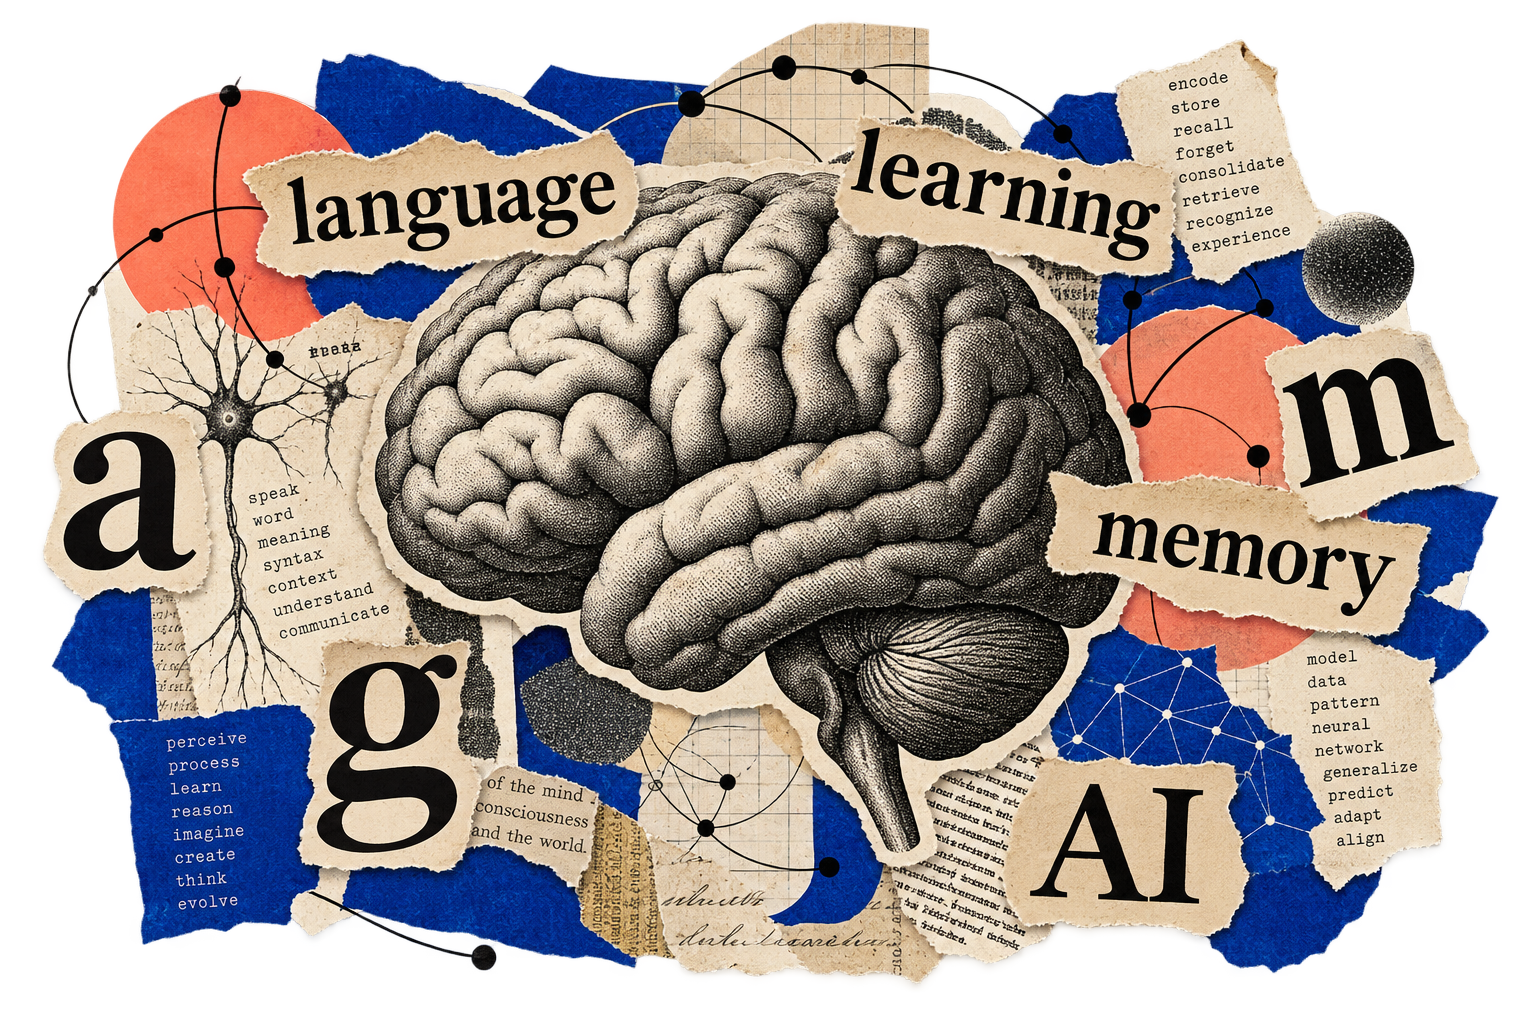
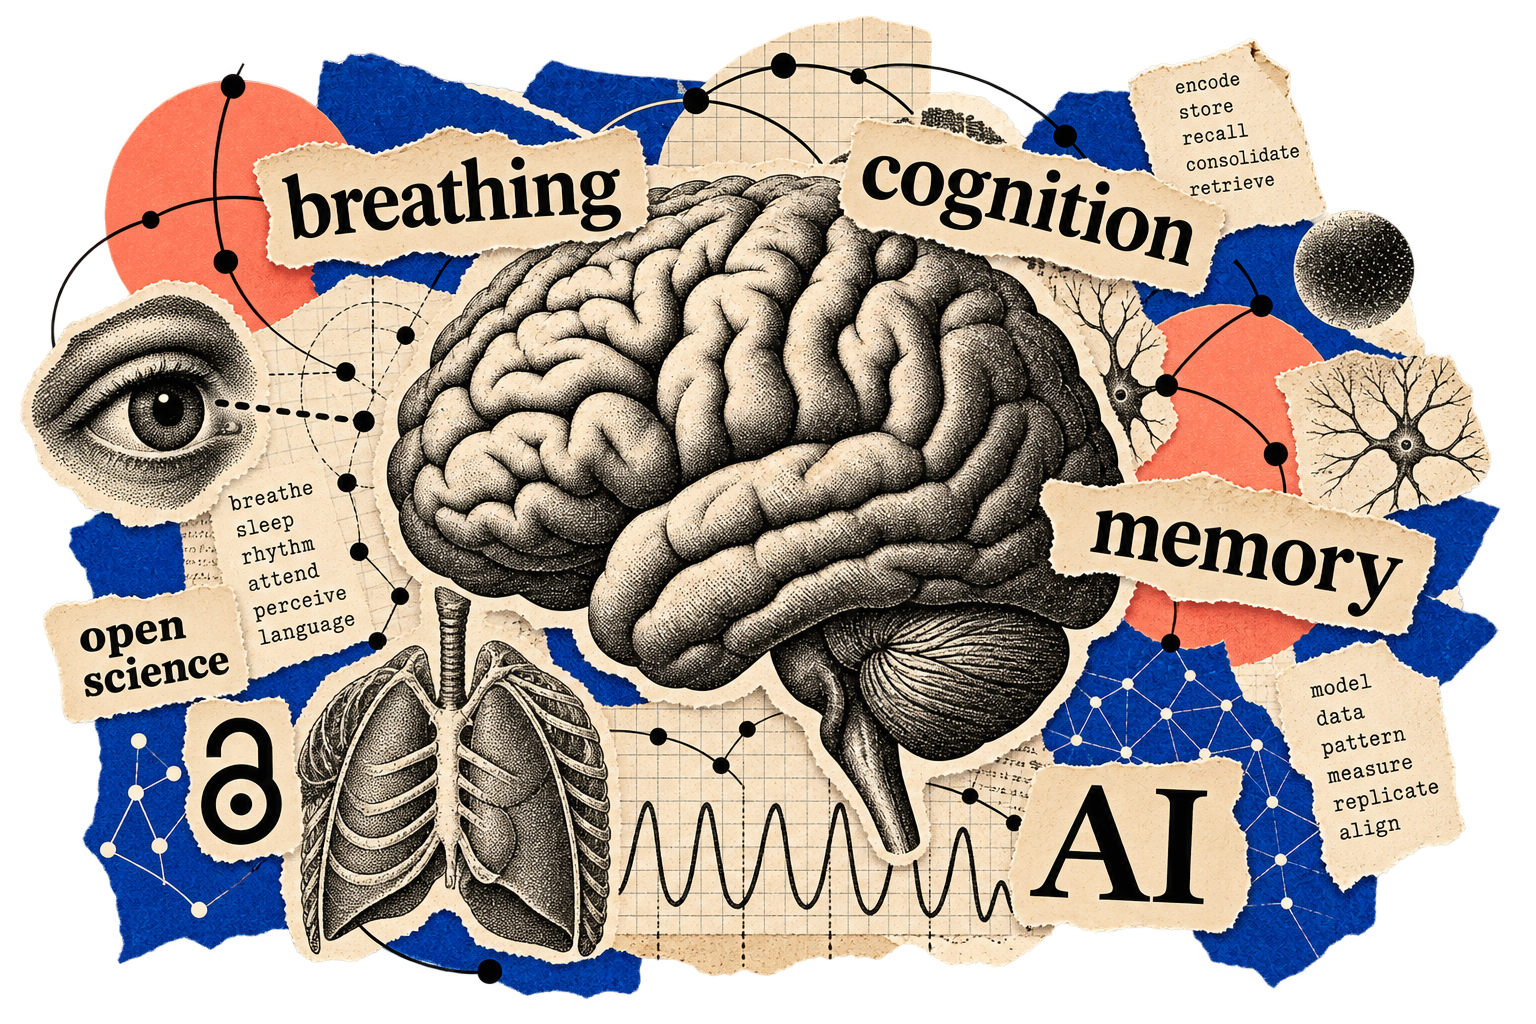
feat: refresh research positioning and CogPhys artwork

diff --git a/css/main.scss b/css/main.scss
@@ -151,8 +151,8 @@ h1 { font-size: clamp(42px, 4.2vw, 64px); font-weight: 600; letter-spacing: -.03
 .page-publications .prose > p { margin-bottom: 1.5em; }
 .page-research-students { --reading-width: 49%; --reading-left: 26%; }
 .page-research-students .prose > ul { font-size: 17px; }
-.page-coglang-lab { --reading-width: 43%; --reading-left: 27%; }
-.page-coglang-lab .page-hero { padding-top: 70px; }
+.page-cogphys-lab { --reading-width: 43%; --reading-left: 27%; }
+.page-cogphys-lab .page-hero { padding-top: 70px; }
 .page-teaching { --reading-width: 62%; --reading-left: 11%; }
 .site-footer .container { width: var(--reading-width); max-width: 960px; margin-left: var(--reading-left); }
 .footer-bottom { flex-direction: column; gap: 5px; }
@@ -162,7 +162,7 @@ h1 { font-size: clamp(42px, 4.2vw, 64px); font-weight: 600; letter-spacing: -.03
   .nav-links { gap: 8px 20px; }
   .prose { font-size: 18px; }
   .page-hero { padding-top: 36px; }
-  .page-coglang-lab .page-hero { padding-top: 40px; }
+  .page-cogphys-lab .page-hero { padding-top: 40px; }
 }
 @media (max-width: 700px) {
   body { --reading-width: calc(100% - 72px) !important; --reading-left: 36px !important; }

diff --git a/research.md b/research.md
@@ -5,22 +5,38 @@ permalink: /research/
 published: true
 ---
 
-My research examines how language is learned, represented and used in the context of memory, perception and action. I use behavioural experiments, eye tracking and cognitive-neuroscience methods, with an interest in how physiological state and individual differences shape cognitive performance.
+I study human cognition, memory, and language, and how they interact with bodily states such as breathing and sleep. Alongside this, I work on research methods and how AI is changing psychological research.
 
-## Word learning and memory
+One strand of my work looks at how sleep and breathing affect memory, visual attention, and cognition. This grew out of earlier research on word learning, language processing, and memory consolidation in sleep. My current work combines laboratory studies of respiration with large open datasets to examine how physiological regulation relates to cognition, health, and wellbeing.
 
-How does a newly learned word become part of our vocabulary? I study how new words interact with existing knowledge, and how sleep, waking rest and the spacing of learning affect that process. Related work examines how memories change when they are retrieved and how sleep affects their subsequent consolidation.
+A second strand focuses on research methods, open science, and metascience. I work on measurement precision, test-retest reliability, effect sizes in repeated-measures designs, meta-analysis, and publication bias. Alongside this, I am interested in the psychology of AI and AI for science, including how people trust and take responsibility for AI-assisted analysis, and how AI tools can support reproducible research.
 
-- [Lexical integration of novel words without sleep](https://doi.org/10.1037/a0029243) (2013). [PDF]({{ '/papers/Lexical_integration_of_novel_words_without_sleep.pdf' | relative_url }})
-- [Markers of automaticity in sleep-associated consolidation of novel words](https://doi.org/10.1016/j.neuropsychologia.2015.03.025) (2015). [PDF]({{ '/papers/Tham_Lindsay_Gaskell.pdf' | relative_url }})
-- [Sleep preserves original and distorted memory traces](https://doi.org/10.1016/j.cortex.2017.10.005) (2018). [PDF]({{ '/papers/cairney2017.pdf' | relative_url }})
-- [How well do children remember fast-mapped words?](https://doi.org/10.1002/icd.70019) (2025).
-
-## Respiration and cognition
+## Respiration, physiological state and cognition
 
 This work examines relationships between breathing and cognitive performance, including memory consolidation, visual search and visuospatial attention. Projects investigate both the route of breathing and the timing of events within the respiratory cycle.
 
 - [Does oral breathing disrupt memory consolidation during waking rest? A registered report](https://doi.org/10.1177/17470218251328994) (2025).
+- Respiratory phase and visuospatial attention: A replication and extension (Roberts et al., 2026). [PsyArXiv](https://osf.io/preprints/psyarxiv/n5ha3_v1).
+
+## Measurement, research methods and AI
+
+My methodological interests focus on how psychological studies can produce more informative and dependable evidence. I am particularly interested in measurement precision, effect sizes, statistical power, replication, registered reports and meta-analysis. Current interests include interpreting interaction effect sizes, representing dependence in repeated-measures designs, and understanding how publication bias, heterogeneity and study design affect the strength and variability of evidence.
+
+This includes examining how researchers check AI-assisted analyses and retain responsibility for the decisions they make.
+
+- [Developmental psychologists should care about measurement precision](https://doi.org/10.1002/icd.2321) (2022).
+- [Data from an international multi-centre study of statistics and mathematics anxieties](https://doi.org/10.5334/jopd.80) (2023).
+- [Same data, different analysts](https://doi.org/10.1186/s12915-024-02101-x) (2025). [PDF]({{ '/papers/Gould_et_al_2025_same_data_different_analysts.pdf' | relative_url }})
+
+## Word learning, memory and sleep
+
+How does a newly learned word become part of our vocabulary? I study how new words interact with existing knowledge, and how sleep, waking rest and the spacing of learning affect that process. Related work examines how memories change when they are retrieved and how sleep affects their subsequent consolidation.
+
+- [Does fast mapping accelerate lexical integration? Evidence from spoken and written novel words](https://doi.org/10.1016/j.jml.2026.104815) (2027). [PDF]({{ '/papers/1-s2.0-S0749596X26000859-main.pdf' | relative_url }})
+- [How well do children remember fast-mapped words?](https://doi.org/10.1002/icd.70019) (2025).
+- [Sleep preserves original and distorted memory traces](https://doi.org/10.1016/j.cortex.2017.10.005) (2018). [PDF]({{ '/papers/cairney2017.pdf' | relative_url }})
+- [Markers of automaticity in sleep-associated consolidation of novel words](https://doi.org/10.1016/j.neuropsychologia.2015.03.025) (2015). [PDF]({{ '/papers/Tham_Lindsay_Gaskell.pdf' | relative_url }})
+- [Lexical integration of novel words without sleep](https://doi.org/10.1037/a0029243) (2013). [PDF]({{ '/papers/Lexical_integration_of_novel_words_without_sleep.pdf' | relative_url }})
 
 ## Speech perception and production
 
@@ -37,14 +53,6 @@ How do people combine language with what they see? I use eye tracking and behavi
 - [Spatial and linguistic aspects of visual imagery in sentence comprehension](https://doi.org/10.1080/03640210701530748) (2007). [PDF]({{ '/papers/Spatial_and_Linguistic_Aspects_of_Visual_Imagery_i.pdf' | relative_url }})
 - [To dash or to dawdle](https://doi.org/10.1371/journal.pone.0067187) (2013).
 - [Event processing in the visual world](https://doi.org/10.1037/xlm0000199) (2016). [PDF]({{ '/papers/Event_processing_in_the_visual_world.pdf' | relative_url }})
-
-## Measurement and research methods
-
-My methodological interests focus on how psychological studies can produce more informative and dependable evidence. I am particularly interested in measurement precision, effect sizes, statistical power, replication, registered reports and meta-analysis. Current interests include interpreting interaction effect sizes, representing dependence in repeated-measures designs, and understanding how publication bias, heterogeneity and study design affect the strength and variability of evidence.
-
-- [Developmental psychologists should care about measurement precision](https://doi.org/10.1002/icd.2321) (2022).
-- [Data from an international multi-centre study of statistics and mathematics anxieties](https://doi.org/10.5334/jopd.80) (2023).
-- [Same data, different analysts](https://doi.org/10.1186/s12915-024-02101-x) (2025). [PDF]({{ '/papers/Gould_et_al_2025_same_data_different_analysts.pdf' | relative_url }})
 
 See the full [publication list]({{ '/publications/' | relative_url }}) and current [research students]({{ '/research-students/' | relative_url }}).
 

diff --git a/revamp/homepage-artwork.md b/revamp/homepage-artwork.md
@@ -1,7 +1,8 @@
 # Homepage collage assets
 
-Created with the built-in image-generation tool, 12 September 2026.
-The name, introduction and thematic words are raster artwork; navigation and contact links remain HTML.
+Original artwork created with the built-in image-generation tool on 12 September 2026. The introduction, body collage, Research background and lab background were refreshed on 30 October 2026 for the agreed cognition, physiology, research methods and AI positioning.
+
+The name, introduction and thematic words are raster artwork; navigation and contact links remain HTML. The four updated assets were supplied from `/tmp/website_revamp_assets/` on Legion.
 
 ## Name: `images/collage/name-patchwork.png`
 
@@ -9,8 +10,22 @@ Use case: logo-brand. Create a finished raster website masthead artwork of the e
 
 ## Body: `images/collage/brain-language.png`
 
-Use case: stylized-concept. A substantial finished editorial cut-paper collage illustration for the BODY of a psychologist's personal website, landscape 3:2 composition. Central large vintage engraved human brain in black halftone print, surrounded and partly overlapped by torn book-paper scraps with words "language", "learning", "memory", "AI", scattered oversized serif letters a, g, m, fragments of typewriter word lists, cobalt blue torn paper shapes, muted coral circular paper, thin ink arcs suggesting connections. Dense, compelling central artwork rather than edge decoration. Sophisticated handmade scholarly collage, analogue print and uneven torn edges, rich paper texture, warm cream, deep cobalt blue, salmon coral, black. Asymmetrical but cohesive, brain as strong focal point, words and letterforms have visual weight. Artwork occupies most of frame with generous clear separation around its irregular outer silhouette. Genuine transparent background preserving alpha so it can sit on cream webpage paper. No UI, no website mockup, no frame, no slogans, no other illustration subjects.
+Updated cut-paper and vintage engraving collage centred on a substantial brain, with lungs, an eye, neurons, physiological waveforms, network diagrams and an open-access motif. Torn-paper words include “breathing”, “cognition”, “memory”, “open science” and “AI”, with smaller memory and methods word lists. Warm cream paper, cobalt blue and coral retain the established palette. The supplied PNG is preserved at 1536 × 1024 pixels with its alpha channel.
 
 ## Introduction: `images/collage/introduction-note.png`
 
-Create a finished website asset: one irregular torn warm cream paper note on a genuinely transparent background, landscape 4:3 canvas. The note contains exactly this text, all perfectly spelled, large and easily readable, arranged as two paragraphs in rich black vintage typewriter print with natural small ink imperfections: "I am a Lecturer in Psychology at the University of Hull." then "I study language, learning, memory and AI, including how sleep and breathing affect cognition." Use generous line spacing, left aligned type. The text should dominate the paper, with modest margins. A small cobalt blue paper tab at top left and a muted coral paper tab at bottom right tuck under the cream note. Sophisticated tactile book-paper collage, understated and scholarly. Close crop of the complete paper note, preserve torn edges, actual transparent alpha outside. No additional text, no frame, no shadow halo, no drawn checkerboard. This note will sit beside a substantial brain collage on a personal website.
+Updated torn cream paper note, cobalt blue and coral tabs, and black vintage typewriter lettering. The supplied PNG is preserved at 1448 × 1086 pixels with its alpha channel. It contains the following agreed wording, also used as the image alt text:
+
+> I am a Lecturer in Psychology at the University of Hull. I study human cognition, memory, and language, and how they interact with bodily states such as breathing and sleep. Alongside this, I work on research methods and how AI is changing psychological research.
+
+## Research background: `images/collage/research.webp`
+
+Margin collage with engraved lungs on the left, a cropped brain on the right, physiological traces, statistical curves, an open-access motif and the words “breathe”, “sleep”, “memory”, “cognition”, “methods” and “AI”. The cream centre leaves space for the reading column.
+
+Converted from the supplied `research.png` to RGB WebP at the existing 1536 × 1024 dimensions, quality 90.
+
+## CogPhys Lab background: `images/collage/lab.webp`
+
+Margin collage with respiratory and cardiac traces, an engraved chest and a large eye, with the words “cognition”, “physiology” and “methods”. Torn cobalt blue and coral paper frame the cream reading area.
+
+Converted from the supplied `lab.png` to RGB WebP at the existing 1536 × 1024 dimensions, quality 90. The page keeps `/lab/`; its title is now “CogPhys Lab” and its layout selectors use `.page-cogphys-lab`.

diff --git a/research-students.md b/research-students.md
@@ -25,18 +25,20 @@ The project examines bilingual language control in high-pressure public service 
 
 ## Previous doctoral supervision
 
-- **Bethanie Richards** (2019–2025) — First supervisor. Research on nasal and oral breathing, memory, attention, respiratory-pupil synchrony and visual search. [Thesis](https://hull-repository.worktribe.com/output/5461944).
-- **Andrew Lucas** (2017–2020) — First supervisor. Research on word learning and lexical engagement, supported by an ESRC studentship. [Thesis](https://hull-repository.worktribe.com/output/4223534).
-- **Tom Peney** (2021–2025) — Second supervisor. Research on immersion, visual attention, change blindness and visual search. [Thesis](https://hull-repository.worktribe.com/output/5462270).
-- **Eloise McCann** (2017–2026) — Second supervisor. [Thesis](https://hull-repository.worktribe.com/output/5646283).
-- **Sylwia Macinska** (2016–2018) — Second supervisor.
+- **Bethanie Richards** (2019–2025). First supervisor. Research on nasal and oral breathing, memory, attention, respiratory-pupil synchrony and visual search. [Thesis](https://hull-repository.worktribe.com/output/5461944).
+- **Andrew Lucas** (2017–2020). First supervisor. Research on word learning and lexical engagement, supported by an ESRC studentship. [Thesis](https://hull-repository.worktribe.com/output/4223534).
+- **Tom Peney** (2021–2025). Second supervisor. Research on immersion, visual attention, change blindness and visual search. [Thesis](https://hull-repository.worktribe.com/output/5462270).
+- **Eloise McCann** (2017–2026). Second supervisor. [Thesis](https://hull-repository.worktribe.com/output/5646283).
+- **Sylwia Macinska** (2016–2018). Second supervisor.
 
 ## Masters supervision
 
-- **Timothy Roberts** (2025–2026) — MRes. [Thesis](https://hull-repository.worktribe.com/output/5679057/the-influence-of-respiratory-cycles-on-visuospatial-attention).
-- **Alfie Hunt** (2019–2020) — MRes.
-- **Rob Nightingale** (2017–2018) — MRes.
+- **Timothy Roberts** (2025–2026). MRes. [Thesis](https://hull-repository.worktribe.com/output/5679057/the-influence-of-respiratory-cycles-on-visuospatial-attention).
+- **Alfie Hunt** (2019–2020). MRes.
+- **Rob Nightingale** (2017–2018). MRes.
 
 ## Supervision enquiries
 
-I welcome enquiries about projects in language, memory, cognition, research methods and psychology of AI. Email [S.Lindsay@hull.ac.uk](mailto:{{ site.email }}) with your interests, background and the degree you are considering. For a doctoral enquiry, please also say whether you have funding or are looking for a funded opportunity.
+I welcome PhD and MRes applications in any of these areas: breathing, physiological state, and cognition; sleep, memory, and language; research methods, open science, and meta-analysis; and the psychology of AI or AI-assisted research.
+
+We regularly support applications for funded PhDs through the ESRC White Rose Doctoral Training Partnership (including the Advanced Quantitative Methods, Advanced Data Analytics, and Wellbeing, Health and Communities routes) as well as University scholarships and self-funded study. Email [S.Lindsay@hull.ac.uk](mailto:{{ site.email }}) with your interests, background and the degree you are considering.

diff --git a/lab.md b/lab.md
@@ -1,19 +1,17 @@
 ---
 layout: page
-title: CogLang Lab
+title: CogPhys Lab
 permalink: /lab/
 published: true
 ---
 
-CogLang brings together research and student projects on language, cognition, learning, memory and visual attention at the University of Hull. I lead the lab, working with students and collaborators on behavioural experiments, eye tracking and cognitive measurement.
+The Cognition and Physiology Lab (CogPhys) brings together research and student projects on how human cognition relates to physiological state, alongside work on research methods and AI at the University of Hull.
 
-
-
-Our research includes word learning and memory consolidation, respiration and cognition, language processing and individual differences. See [Research]({{ '/research/' | relative_url }}) for the research programme and [Research students]({{ '/research-students/' | relative_url }}) for the people and projects.
+Our work includes sleep, breathing, memory, language, open science, and the psychology of AI. See [Research]({{ '/research/' | relative_url }}) for current projects and [Research students]({{ '/research-students/' | relative_url }}) for the people in the lab.
 
 ## Methods
 
-We use behavioural experiments, reaction-time and accuracy measures, and eye tracking, including EyeLink 1000-based visual-attention research. My wider research experience includes EEG, TMS and tDCS. Experimental design, measurement and reproducible analysis are central to the work.
+We combine behavioural experiments, respiratory and physiological recording, and eye tracking (including EyeLink 1000 research) with analyses of large open physiological and neuroimaging datasets. Experimental design, measurement precision, and reproducible analysis are central to the work.
 
 ## Working with us
 

diff --git a/index.md b/index.md
@@ -10,9 +10,9 @@ redirect_from:
 
 <section class="home-composition" aria-label="About my work">
   <div class="home-introduction">
-    <img class="intro-note" src="{{ '/images/collage/introduction-note.png' | relative_url }}" alt="I am a Lecturer in Psychology at the University of Hull. I study language, learning, memory and AI, including how sleep and breathing affect cognition." width="1448" height="1086" />
+    <img class="intro-note" src="{{ '/images/collage/introduction-note.png' | relative_url }}" alt="I am a Lecturer in Psychology at the University of Hull. I study human cognition, memory, and language, and how they interact with bodily states such as breathing and sleep. Alongside this, I work on research methods and how AI is changing psychological research." width="1448" height="1086" />
   </div>
-  <img class="home-brain" src="{{ '/images/collage/brain-language.png' | relative_url }}" alt="A paper collage of a brain, letters, and the words language, learning, memory and AI." width="1536" height="1024" fetchpriority="high" />
+  <img class="home-brain" src="{{ '/images/collage/brain-language.png' | relative_url }}" alt="A cut-paper and vintage engraving collage of a brain, lungs, eye, physiological waveform, and the words breathing, cognition, memory, open science and AI." width="1536" height="1024" fetchpriority="high" />
 </section>
 
 <div class="home-contact" markdown="1">
